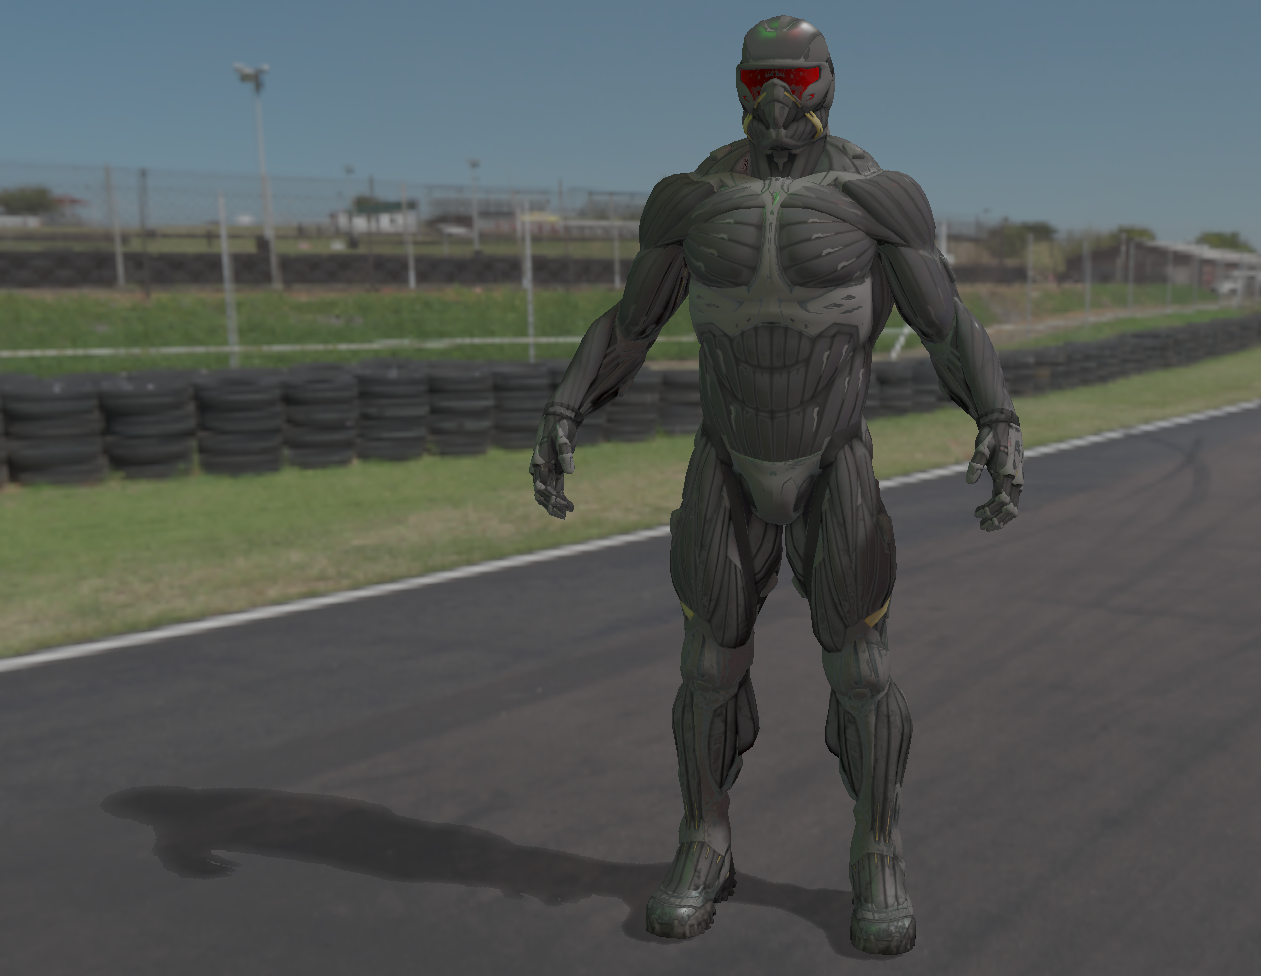
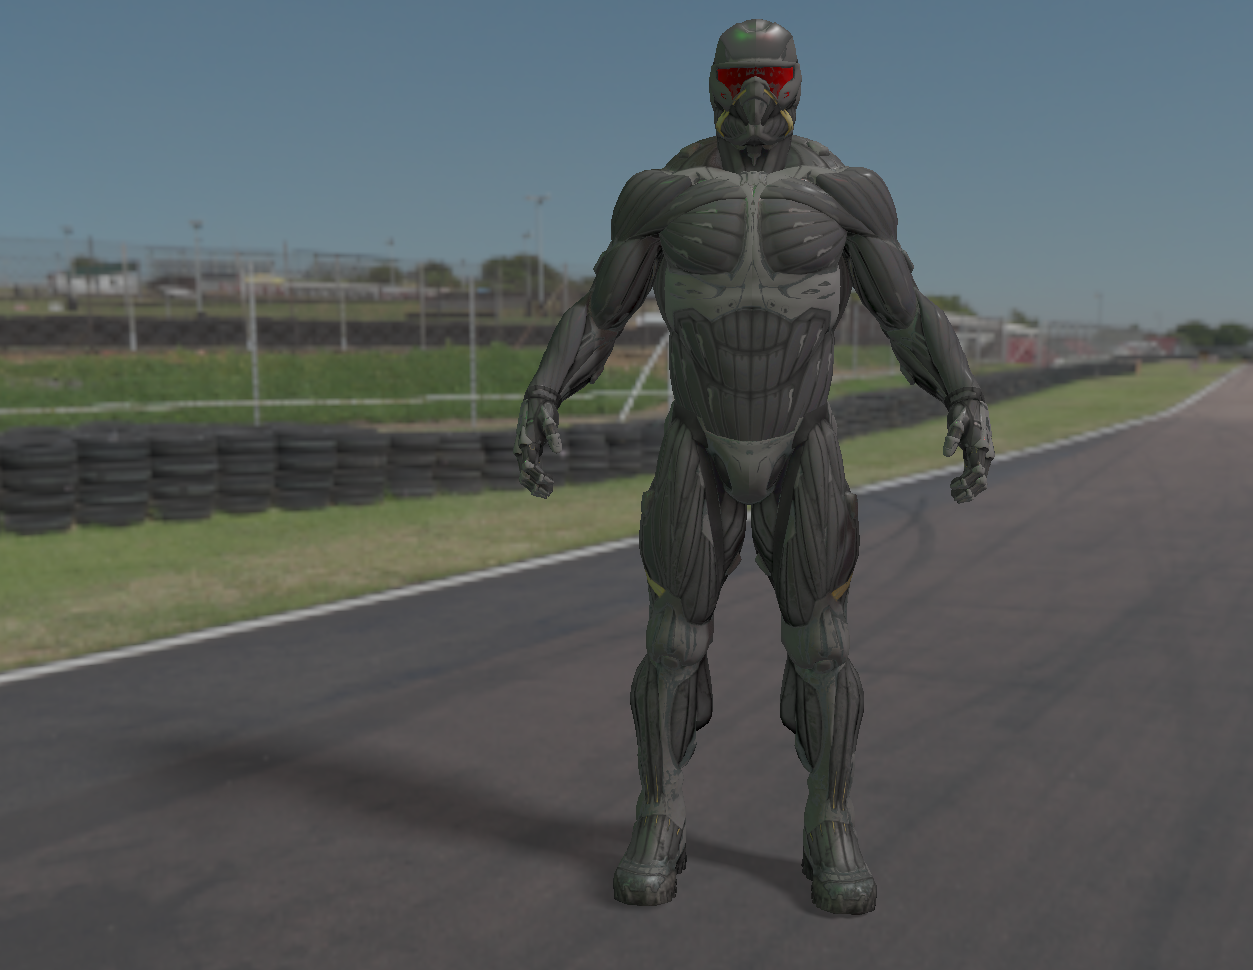
PCSS optimizing

Changed region(s): [[0.0, 0.0, 1.0, 0.9897], [0.1245, 0.8041, 0.4669, 0.9278], [0.1868, 0.0619, 0.2179, 0.0928]]

diff --git a/main.cpp b/main.cpp
@@ -95,7 +95,7 @@ int main()
     // ------
     // lighting
     //glm::vec3 lightPos(70,100,-15);
-    glm::vec3 lightPos(100.f, 100.f, 20.f);
+    glm::vec3 lightPos(100.f, 100.f, 50.f);
     glm::vec3 lightPositions[] = {
         glm::vec3(10.0f, 10.0f, 13.0f),
         glm::vec3(-10.0f, 10.0f, 13.0f),
@@ -106,8 +106,9 @@ int main()
         glm::vec3(20.0f,0.0f, 0.0f),
         glm::vec3(0.0f, 20.0f, 0.0f),
         glm::vec3(9000.0f, 9000.0f, 9000.0f),
-        glm::vec3(9.0f, 9.0f, 9.0f)
+        glm::vec3(0.0f, 0.0f, 0.0f)
     };
+    float lightArea = 200.0f;
     int nrRows = 7;
     int nrColumns = 7;
     float spacing = 2.5;
@@ -126,7 +127,7 @@ int main()
     
     
     //shadowing set
-    const unsigned int SHADOW_WIDTH = 1024, SHADOW_HEIGHT = 1024;
+    const unsigned int SHADOW_WIDTH = 2048, SHADOW_HEIGHT = 2048;
     Shader simpleDepthShader("./shader/5.3.1.shadow_mapping_depth.vs", "./shader/5.3.1.shadow_mapping_depth.fs");
     unsigned int depthMap, depthMapFBO;
     ShadowingSet(SHADOW_WIDTH, SHADOW_HEIGHT, depthMap, depthMapFBO);
@@ -153,7 +154,7 @@ int main()
         glm::mat4 lightProjection, lightView;
         glm::mat4 lightSpaceMatrix;
         float near_plane = 100.0f, far_plane = 200.5f;
-        lightProjection = glm::ortho(-10.0f, 20.0f, -10.0f, 15.0f, near_plane, far_plane);
+        lightProjection = glm::ortho(-10.0f, 20.0f, -10.0f, 20.0f, near_plane, far_plane);
         lightView = glm::lookAt(lightPos, glm::vec3(0.0f), glm::vec3(0.0, 1.0, 0.0));
         lightSpaceMatrix = lightProjection * lightView;
         // render scene from light's point of view
@@ -163,12 +164,17 @@ int main()
         //model = glm::scale(model, glm::vec3(3.0, 3.0, 3.0));
         model = glm::translate(model, glm::vec3(0.0, 0.0, -10.0));
         model = glm::rotate(model, glm::radians(-0.f), glm::vec3(0.0f, 1.0f, 0.0f));
-        simpleDepthShader.setMat4("model", model);
+        glm::mat4 model2 = glm::mat4(1.0f);
+        model2 = glm::translate(model2, glm::vec3(6.0, 0.0, -9.0));
+        
         glViewport(0, 0, SHADOW_WIDTH, SHADOW_HEIGHT);
         glBindFramebuffer(GL_FRAMEBUFFER, depthMapFBO);
         glClear(GL_DEPTH_BUFFER_BIT);
         glCullFace(GL_FRONT);
+        simpleDepthShader.setMat4("model", model);
         ourModel.Draw(simpleDepthShader);
+        //simpleDepthShader.setMat4("model", model2);
+        //ourModel.Draw(simpleDepthShader);
         glCullFace(GL_BACK);
         glBindFramebuffer(GL_FRAMEBUFFER, 0);
 
@@ -202,7 +208,10 @@ int main()
             ModelShader.setVec3("lightPositions[" + std::to_string(i) + "]", lightPositions[i]);
             ModelShader.setVec3("lightColors[" + std::to_string(i) + "]", lightColors[i]);
         }
+
         ourModel.Draw(ModelShader);
+        //ModelShader.setMat4("model", model2);
+        //ourModel.Draw(ModelShader);
         // render plane 
         //--
         planeShader.use();
@@ -219,6 +228,8 @@ int main()
         planeShader.setVec3("viewPos", camera.Position);
         planeShader.setVec3("lightPos", lightPos);
         planeShader.setMat4("lightSpaceMatrix", lightSpaceMatrix);
+        planeShader.setFloat("lightArea", lightArea);
+
         glActiveTexture(GL_TEXTURE0);
         glBindTexture(GL_TEXTURE_CUBE_MAP, envCubemap);
         glActiveTexture(GL_TEXTURE1);
